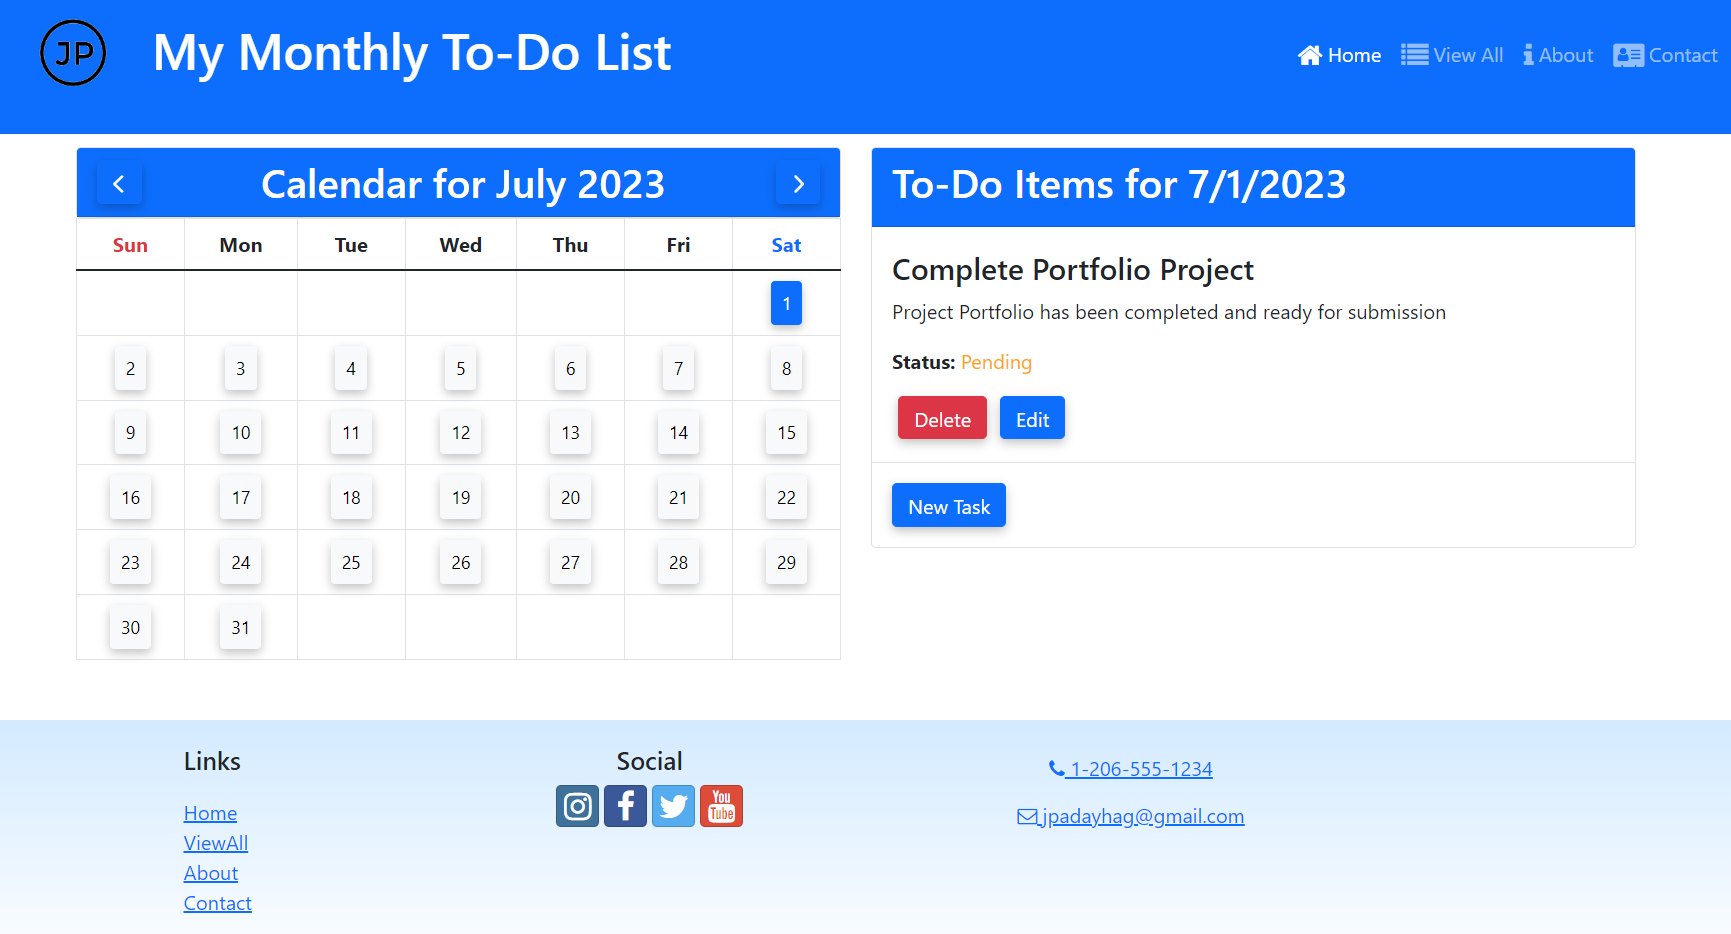
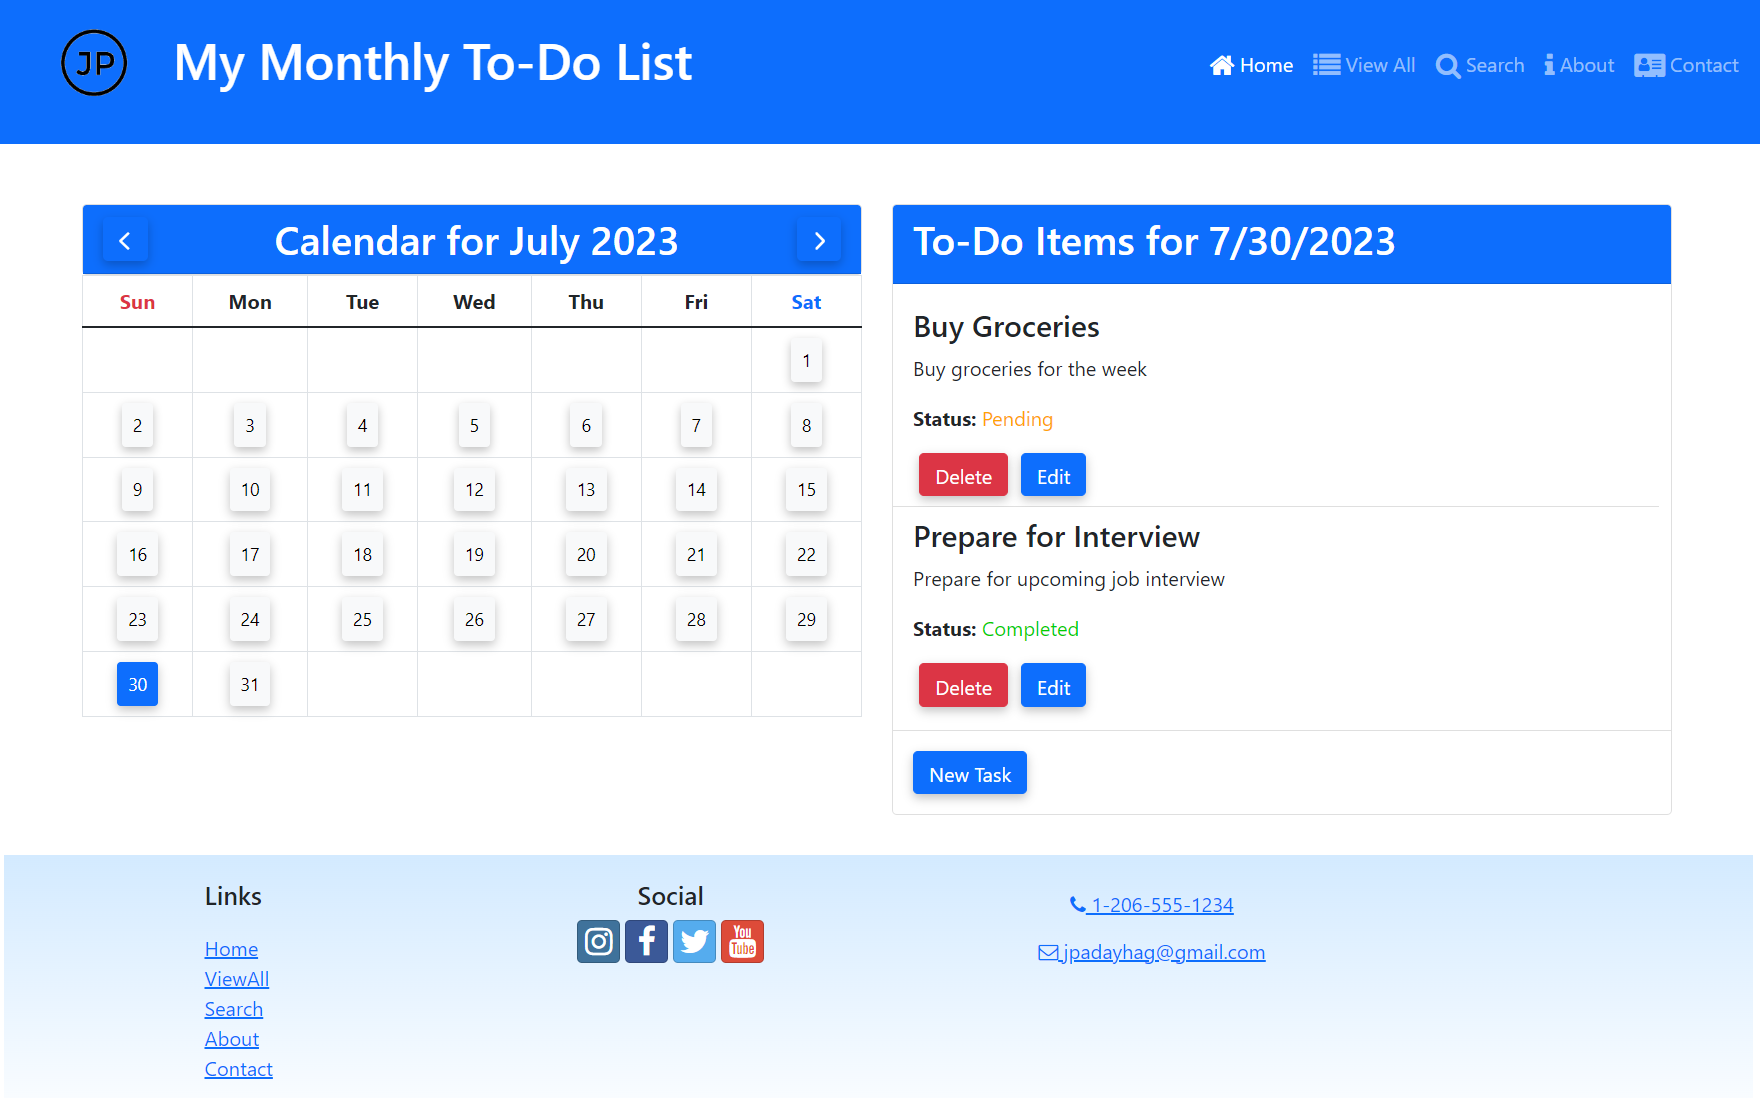
Updated the Footer and screenshot

diff --git a/src/app/shared/TODOITEMS.js b/src/app/shared/TODOITEMS.js
@@ -12,5 +12,40 @@ export const TODOITEMS = [
         description: 'Laundry has been completed',
         status: 'Pending',
         date: '2023-07-02'
-    }
+    },
+    {
+        id: 2,
+        title: 'Buy Groceries',
+        description: 'Buy groceries for the week',
+        status: 'Pending',
+        date: '2023-07-30',
+      },
+      {
+        id: 3,
+        title: 'Prepare for Interview',
+        description: 'Prepare for upcoming job interview',
+        status: 'Pending',
+        date: '2023-07-30',
+      },
+      {
+        id: 4,
+        title: 'Sample Task 1',
+        description: 'This is a sample task for today',
+        status: 'Pending',
+        date: '2023-07-27',
+      },
+      {
+        id: 5,
+        title: 'Sample Task 2',
+        description: 'This is a sample task for tomorrow',
+        status: 'Pending',
+        date: '2023-07-28',
+      },
+      {
+        id: 6,
+        title: 'Sample Task 3',
+        description: 'This is a sample task for the day after tomorrow',
+        status: 'Pending',
+        date: '2023-07-29',
+      },
 ];

diff --git a/src/components/Footer.js b/src/components/Footer.js
@@ -16,6 +16,9 @@ const Footer = () => {
                                 <Link to='/View-all'>ViewAll</Link>
                             </li>
                             <li>
+                                <Link to='/Search'>Search</Link>
+                            </li>
+                            <li>
                                 <Link to='/About'>About</Link>
                             </li>
                             <li>
